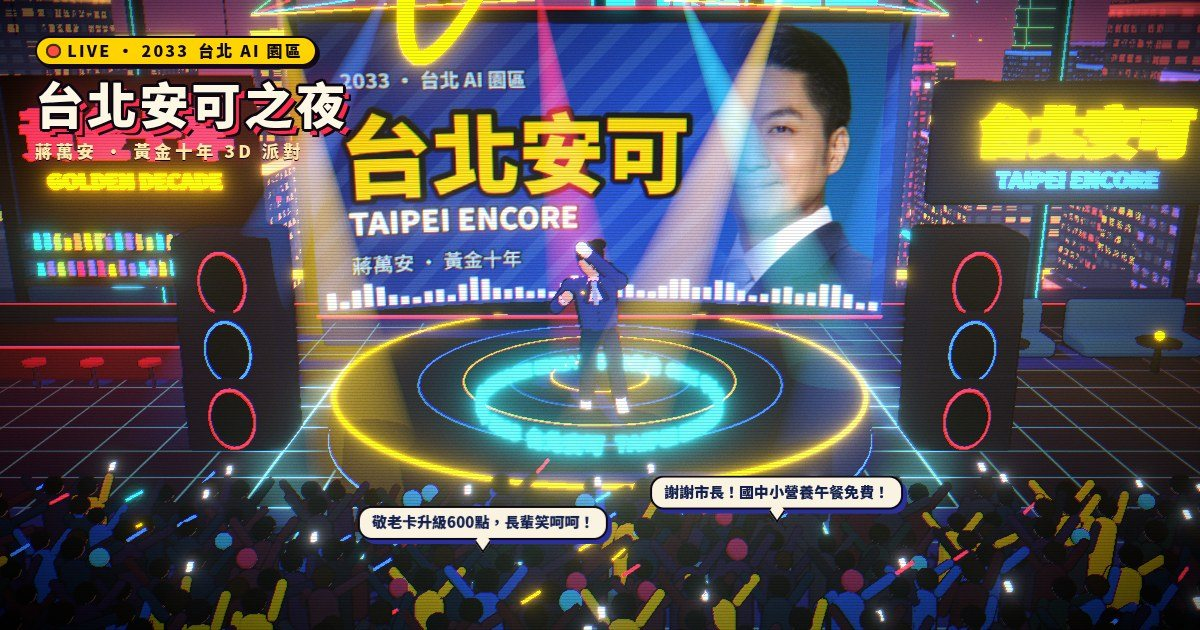
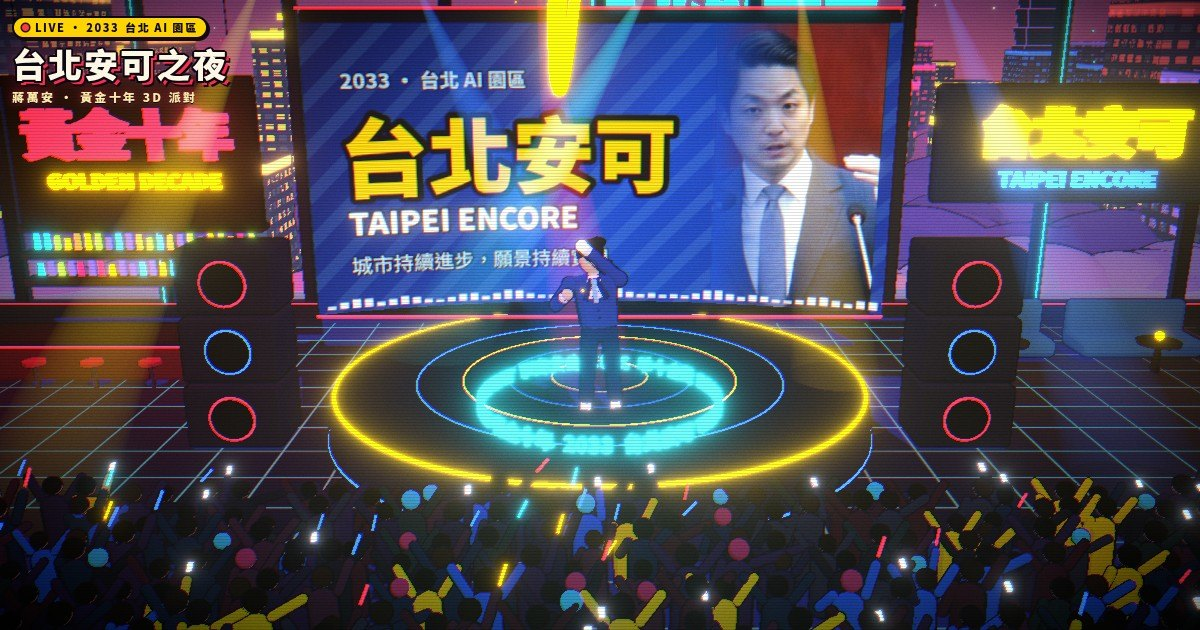
Content guidelines in the agent prompt and submit form; share images for channels 2026/2028 and the TV card re-shot with the new portrait

diff --git a/src/tv/prompts.ts b/src/tv/prompts.ts
@@ -9,7 +9,8 @@ export const STARTER_PROMPT = `幫我做一個 3D 互動網站：我的「台北
 - 台下：（觀眾在做什麼？喊什麼？）
 - 內容：上 gov.taipei 查蔣萬安四年施政成績和「黃金十年」政見，做成畫面裡的文字或互動，每一條附上資料來源。
 - 音樂：嵌入 YouTube 上的〈台北安可〉官方 MV（影片 ID uKCiYJdv6Zg）當背景音樂。
-- 要求：手機和電腦都能玩；可以被別的網站用 iframe 嵌入；最後幫我部署成公開的 https 網址。`
+- 要求：手機和電腦都能玩；可以被別的網站用 iframe 嵌入；最後幫我部署成公開的 https 網址。
+- 規範：內容友善正向，不攻擊、不抹黑任何人或政黨；照片、音樂、字型只用自己做的、公有領域或有授權的素材，並標示來源；頁面上註明「粉絲創作，非官方網站」。`
 
 export const PROTOCOL = `// 選用：讓台北安可電視台的遙控器控制你的舞台
 window.addEventListener('message', (e) => {

diff --git a/src/tv/components/SubmitForm.tsx b/src/tv/components/SubmitForm.tsx
@@ -184,7 +184,10 @@ export function SubmitForm({ unit = '台' }: { unit?: '台' | '樓' }) {
           </Field>
           <label className="flex items-start gap-2 text-sm text-[#2a2f52]">
             <input name="agree" type="checkbox" required className="mt-1 size-4 accent-[#1f4fd1]" />
-            我同意作品名稱、網址、名字、說明與 prompt 公開展示在台北安可電視台。
+            <span>
+              我同意作品名稱、網址、名字、說明與 prompt 公開展示在台北安可電視台。作品內容友善正向、不攻擊或抹黑任何人與政黨，
+              使用的照片、音樂與字型都有授權；不符合的作品不會上架。
+            </span>
           </label>
 
           {error && <p className="rounded-xl border-2 border-[#0c0812] bg-[#ffd9d9] p-2.5 text-sm font-bold text-[#7a1020]">{error}</p>}
